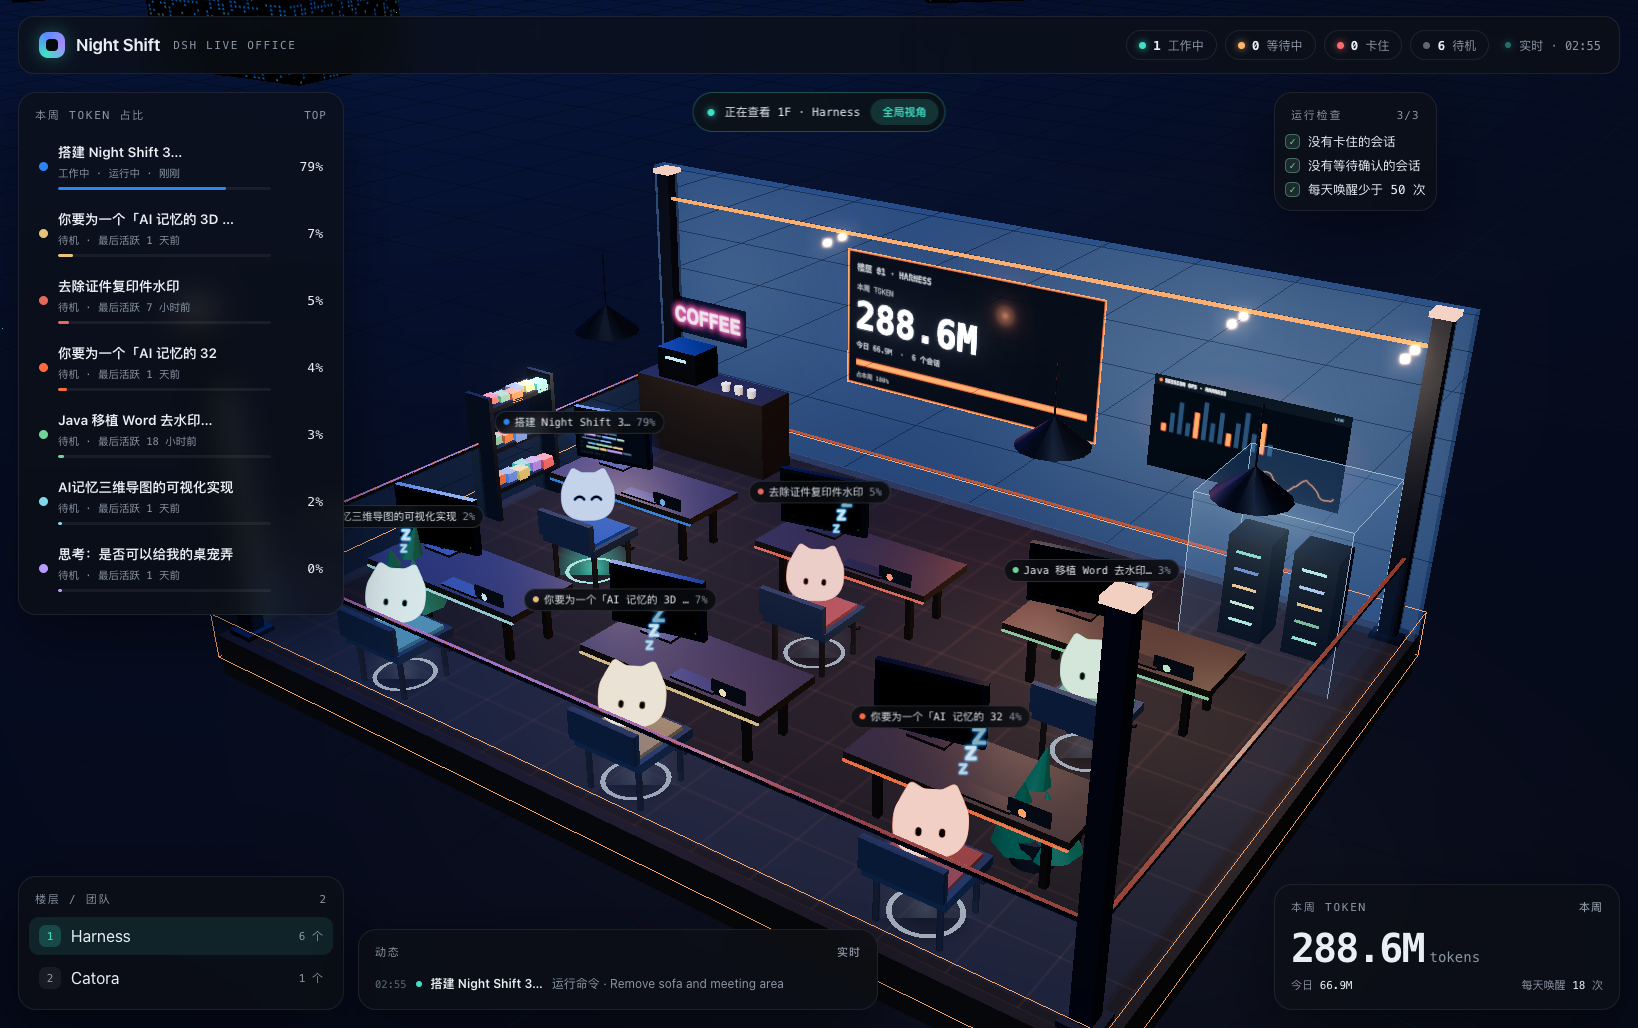
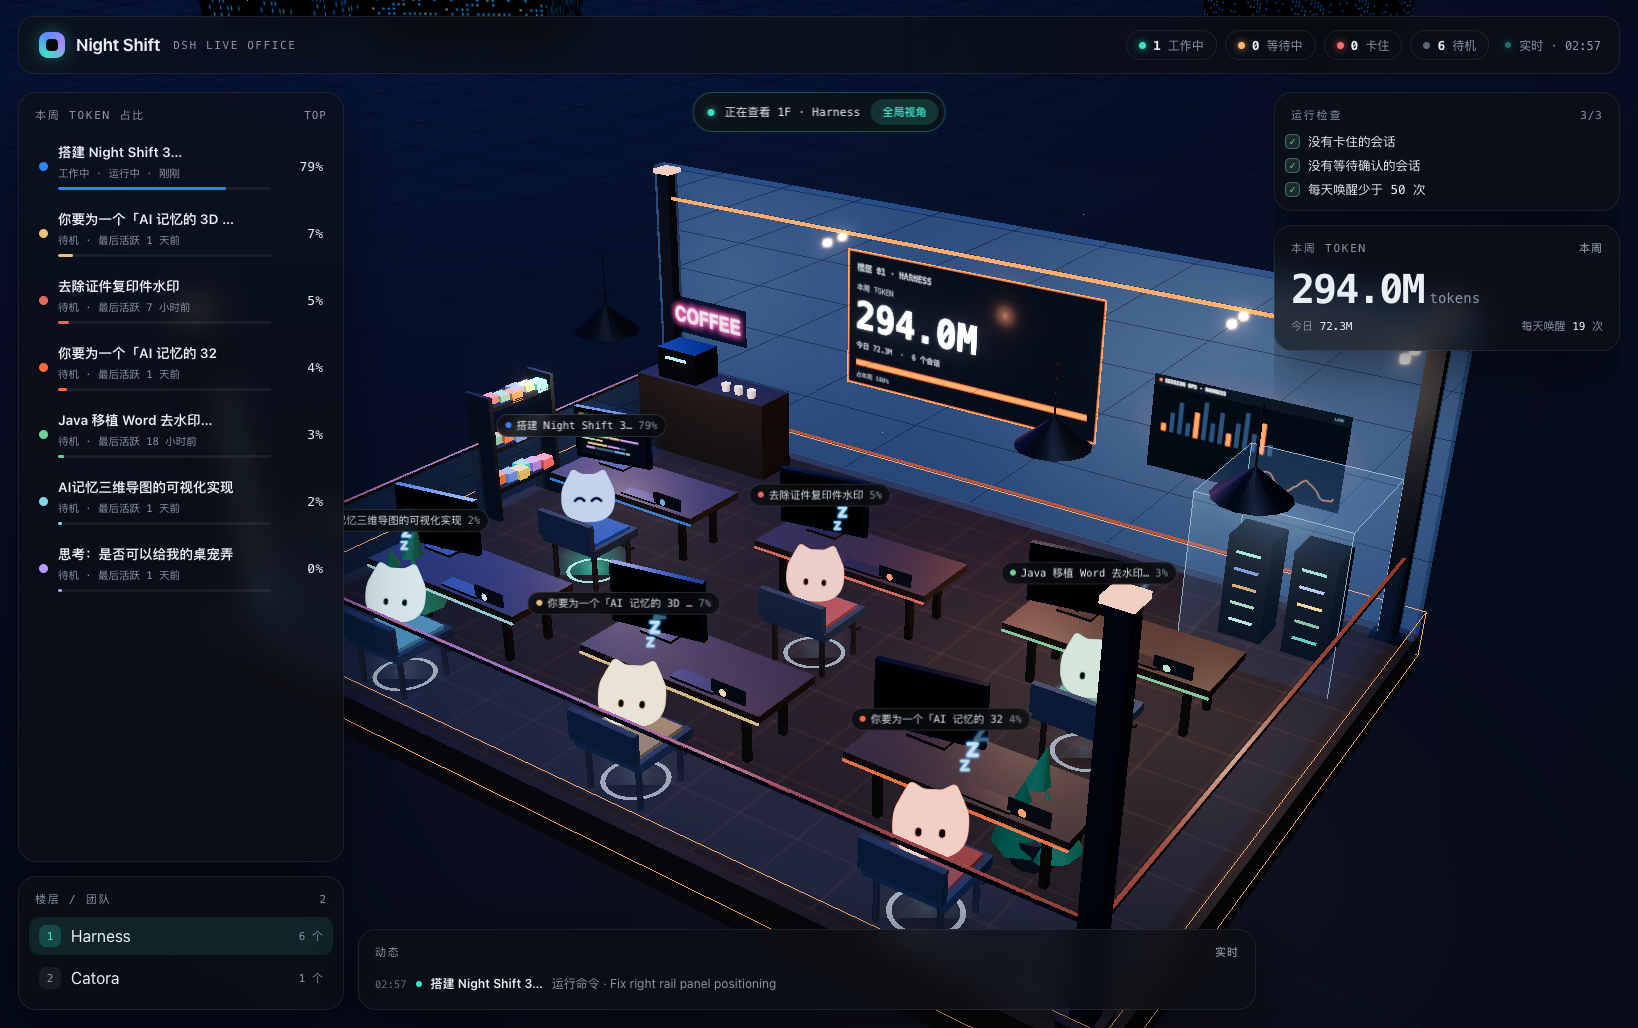
layout(hud): 重构提示面板布局
- 左侧收成单栏：榜单（自适应高度）+ 楼层，去掉错落的底部悬浮
- 右侧收成单栏：运行检查 + 本周 TOKEN，移到同一栏
- 动态改为底部通栏，限制高度、内部滚动
- 面板间距统一 14，移除重叠/参差；1280/1638/2560 验证无重叠
- impeccable detect --scope layout 无告警；版本 2.4.0

diff --git a/lib/panel.html b/lib/panel.html
@@ -57,8 +57,9 @@
   .panel__head b{margin-left:auto;color:var(--dim);font-weight:500;letter-spacing:1px}
   .panel__body{padding:0 10px 12px}
 
-  /* ---------- 左侧榜单 ---------- */
-  #board{left:18px;top:92px;width:326px;max-height:calc(100vh - 92px - 190px);display:flex;flex-direction:column}
+  /* ---------- 左侧栏：榜单 + 楼层 ---------- */
+  #left{position:absolute;left:18px;top:92px;bottom:18px;width:326px;display:flex;flex-direction:column;gap:14px;z-index:9;min-height:0}
+  #board{position:relative;left:auto;top:auto;width:auto;flex:1 1 auto;min-height:0;max-height:none;display:flex;flex-direction:column}
   #board .panel__body{overflow:auto;scrollbar-width:thin;scrollbar-color:#242a34 transparent}
   #board .panel__body::-webkit-scrollbar{width:6px}
   #board .panel__body::-webkit-scrollbar-thumb{background:#242a34;border-radius:3px}
@@ -75,7 +76,7 @@
   .row__pct{font-family:var(--mono);font-size:13px;color:var(--ink);flex:none;min-width:42px;text-align:right}
 
   /* ---------- 楼层 ---------- */
-  #floors{left:18px;bottom:18px;width:326px}
+  #floors{position:relative;left:auto;bottom:auto;width:auto;flex:none}
   #floors .panel__body{display:flex;flex-direction:column;gap:4px}
   .floor{display:flex;align-items:center;gap:10px;padding:8px 10px;border-radius:10px;cursor:pointer;font-size:13px;appearance:none;width:100%;border:0;background:transparent;color:inherit;font:inherit;text-align:left}
   .floor:hover{background:rgba(255,255,255,.045)}
@@ -85,7 +86,9 @@
   .floor__ct{margin-left:auto;font-family:var(--mono);font-size:11px;color:var(--dim)}
 
   /* ---------- 右侧 ---------- */
-  #right{position:absolute;right:18px;top:92px;width:346px;display:flex;flex-direction:column;gap:14px;z-index:9;max-height:calc(100vh - 92px - 170px)}
+  #right{position:absolute;right:18px;top:92px;bottom:18px;width:346px;display:flex;flex-direction:column;gap:14px;z-index:9;max-height:none;overflow:auto;scrollbar-width:none}
+  #right::-webkit-scrollbar{display:none}
+  #right > .panel{position:relative;left:auto;right:auto;top:auto;bottom:auto}
   #card{position:relative;display:none}
   #card.show{display:block}
   #card .panel__head b{margin-left:0;margin-right:26px;color:var(--dim)}
@@ -111,8 +114,8 @@
   .check.ok i{background:rgba(125,211,160,.14);border-color:rgba(125,211,160,.4);color:var(--green)}
 
   /* ---------- 动态 ---------- */
-  #feed{left:358px;bottom:18px;width:min(520px,calc(100vw - 358px - 386px))}
-  #feed .panel__body{display:flex;flex-direction:column;gap:2px}
+  #feed{left:358px;right:382px;bottom:18px;width:auto;max-height:168px;display:flex;flex-direction:column;overflow:hidden}
+  #feed .panel__body{display:flex;flex-direction:column;gap:2px;overflow:auto;min-height:0}
   .evt{display:flex;align-items:center;gap:9px;padding:5px 6px;font-size:12px;color:var(--dim);white-space:nowrap;overflow:hidden}
   .evt .t{font-family:var(--mono);font-size:10.5px;color:var(--dim-2);flex:none}
   .evt i{width:6px;height:6px;border-radius:50%;flex:none}
@@ -123,7 +126,7 @@
   .empty span{color:var(--dim-2)}
 
   /* ---------- 用量 ---------- */
-  #meter{right:18px;bottom:18px;width:346px}
+  #meter{position:relative;right:auto;bottom:auto;width:auto;flex:none}
   #meter .panel__body{padding:0 16px 16px}
   #meter .big{font-family:var(--mono);font-size:40px;font-weight:650;letter-spacing:-2px;line-height:1.05;margin-top:2px}
   #meter .big small{font-size:14px;font-weight:500;color:var(--dim);letter-spacing:0;margin-left:6px}
@@ -150,10 +153,14 @@
   .floorlbl{position:absolute;transform:translate(-50%,-50%);font-family:var(--mono);font-size:11px;letter-spacing:2px;color:rgba(138,148,163,.9);padding:3px 9px;border:1px solid rgba(255,255,255,.1);border-radius:999px;background:rgba(8,11,15,.6);white-space:nowrap}
   .floorlbl b{color:var(--ink);font-weight:600;margin-left:6px;letter-spacing:0}
   @media (max-width:1180px){
-    #board,#floors{width:280px}
-    #right,#meter{width:300px}
-    #feed{width:420px}
+    #left{width:280px}
+    #right{width:300px}
+    #feed{left:312px;right:332px}
     .brand span{display:none}
+  }
+  @media (max-height:760px){
+    #floors{display:none}
+    #feed{max-height:112px}
   }
 </style>
 </head>
@@ -168,15 +175,17 @@
     <div id="clock"><i></i><span>实时</span></div>
   </header>
 
-  <aside id="board" class="panel">
-    <div class="panel__head"><span>本周 TOKEN 占比</span><b>TOP</b></div>
-    <div class="panel__body" id="boardBody"></div>
-  </aside>
+  <div id="left">
+    <aside id="board" class="panel">
+      <div class="panel__head"><span>本周 TOKEN 占比</span><b>TOP</b></div>
+      <div class="panel__body" id="boardBody"></div>
+    </aside>
 
-  <aside id="floors" class="panel">
-    <div class="panel__head"><span>楼层 / 团队</span><b id="floorCount"></b></div>
-    <div class="panel__body" id="floorBody"></div>
-  </aside>
+    <aside id="floors" class="panel">
+      <div class="panel__head"><span>楼层 / 团队</span><b id="floorCount"></b></div>
+      <div class="panel__body" id="floorBody"></div>
+    </aside>
+  </div>
 
   <aside id="right">
     <section id="card" class="panel">
@@ -197,19 +206,19 @@
       <div class="panel__head"><span>运行检查</span><b id="checkScore"></b></div>
       <div class="panel__body" id="checkBody"></div>
     </section>
+
+    <footer id="meter" class="panel">
+      <div class="panel__head"><span>本周 TOKEN</span><b id="meterSpan">周一至今</b></div>
+      <div class="panel__body">
+        <div class="big" id="meterBig">0<small>tokens</small></div>
+        <div class="sub"><span>今日 <b id="meterToday">0</b></span><span>每天唤醒 <b id="meterWake">0</b> 次</span></div>
+      </div>
+    </footer>
   </aside>
 
   <footer id="feed" class="panel">
     <div class="panel__head"><span>动态</span><b>实时</b></div>
     <div class="panel__body" id="feedBody"></div>
-  </footer>
-
-  <footer id="meter" class="panel">
-    <div class="panel__head"><span>本周 TOKEN</span><b id="meterSpan">周一至今</b></div>
-    <div class="panel__body">
-      <div class="big" id="meterBig">0<small>tokens</small></div>
-      <div class="sub"><span>今日 <b id="meterToday">0</b></span><span>每天唤醒 <b id="meterWake">0</b> 次</span></div>
-    </div>
   </footer>
 
   <div id="focusChip" hidden>

diff --git a/panel-src/index.html b/panel-src/index.html
@@ -57,8 +57,9 @@
   .panel__head b{margin-left:auto;color:var(--dim);font-weight:500;letter-spacing:1px}
   .panel__body{padding:0 10px 12px}
 
-  /* ---------- 左侧榜单 ---------- */
-  #board{left:18px;top:92px;width:326px;max-height:calc(100vh - 92px - 190px);display:flex;flex-direction:column}
+  /* ---------- 左侧栏：榜单 + 楼层 ---------- */
+  #left{position:absolute;left:18px;top:92px;bottom:18px;width:326px;display:flex;flex-direction:column;gap:14px;z-index:9;min-height:0}
+  #board{position:relative;left:auto;top:auto;width:auto;flex:1 1 auto;min-height:0;max-height:none;display:flex;flex-direction:column}
   #board .panel__body{overflow:auto;scrollbar-width:thin;scrollbar-color:#242a34 transparent}
   #board .panel__body::-webkit-scrollbar{width:6px}
   #board .panel__body::-webkit-scrollbar-thumb{background:#242a34;border-radius:3px}
@@ -75,7 +76,7 @@
   .row__pct{font-family:var(--mono);font-size:13px;color:var(--ink);flex:none;min-width:42px;text-align:right}
 
   /* ---------- 楼层 ---------- */
-  #floors{left:18px;bottom:18px;width:326px}
+  #floors{position:relative;left:auto;bottom:auto;width:auto;flex:none}
   #floors .panel__body{display:flex;flex-direction:column;gap:4px}
   .floor{display:flex;align-items:center;gap:10px;padding:8px 10px;border-radius:10px;cursor:pointer;font-size:13px;appearance:none;width:100%;border:0;background:transparent;color:inherit;font:inherit;text-align:left}
   .floor:hover{background:rgba(255,255,255,.045)}
@@ -85,7 +86,9 @@
   .floor__ct{margin-left:auto;font-family:var(--mono);font-size:11px;color:var(--dim)}
 
   /* ---------- 右侧 ---------- */
-  #right{position:absolute;right:18px;top:92px;width:346px;display:flex;flex-direction:column;gap:14px;z-index:9;max-height:calc(100vh - 92px - 170px)}
+  #right{position:absolute;right:18px;top:92px;bottom:18px;width:346px;display:flex;flex-direction:column;gap:14px;z-index:9;max-height:none;overflow:auto;scrollbar-width:none}
+  #right::-webkit-scrollbar{display:none}
+  #right > .panel{position:relative;left:auto;right:auto;top:auto;bottom:auto}
   #card{position:relative;display:none}
   #card.show{display:block}
   #card .panel__head b{margin-left:0;margin-right:26px;color:var(--dim)}
@@ -111,8 +114,8 @@
   .check.ok i{background:rgba(125,211,160,.14);border-color:rgba(125,211,160,.4);color:var(--green)}
 
   /* ---------- 动态 ---------- */
-  #feed{left:358px;bottom:18px;width:min(520px,calc(100vw - 358px - 386px))}
-  #feed .panel__body{display:flex;flex-direction:column;gap:2px}
+  #feed{left:358px;right:382px;bottom:18px;width:auto;max-height:168px;display:flex;flex-direction:column;overflow:hidden}
+  #feed .panel__body{display:flex;flex-direction:column;gap:2px;overflow:auto;min-height:0}
   .evt{display:flex;align-items:center;gap:9px;padding:5px 6px;font-size:12px;color:var(--dim);white-space:nowrap;overflow:hidden}
   .evt .t{font-family:var(--mono);font-size:10.5px;color:var(--dim-2);flex:none}
   .evt i{width:6px;height:6px;border-radius:50%;flex:none}
@@ -123,7 +126,7 @@
   .empty span{color:var(--dim-2)}
 
   /* ---------- 用量 ---------- */
-  #meter{right:18px;bottom:18px;width:346px}
+  #meter{position:relative;right:auto;bottom:auto;width:auto;flex:none}
   #meter .panel__body{padding:0 16px 16px}
   #meter .big{font-family:var(--mono);font-size:40px;font-weight:650;letter-spacing:-2px;line-height:1.05;margin-top:2px}
   #meter .big small{font-size:14px;font-weight:500;color:var(--dim);letter-spacing:0;margin-left:6px}
@@ -150,10 +153,14 @@
   .floorlbl{position:absolute;transform:translate(-50%,-50%);font-family:var(--mono);font-size:11px;letter-spacing:2px;color:rgba(138,148,163,.9);padding:3px 9px;border:1px solid rgba(255,255,255,.1);border-radius:999px;background:rgba(8,11,15,.6);white-space:nowrap}
   .floorlbl b{color:var(--ink);font-weight:600;margin-left:6px;letter-spacing:0}
   @media (max-width:1180px){
-    #board,#floors{width:280px}
-    #right,#meter{width:300px}
-    #feed{width:420px}
+    #left{width:280px}
+    #right{width:300px}
+    #feed{left:312px;right:332px}
     .brand span{display:none}
+  }
+  @media (max-height:760px){
+    #floors{display:none}
+    #feed{max-height:112px}
   }
 </style>
 </head>
@@ -168,15 +175,17 @@
     <div id="clock"><i></i><span>实时</span></div>
   </header>
 
-  <aside id="board" class="panel">
-    <div class="panel__head"><span>本周 TOKEN 占比</span><b>TOP</b></div>
-    <div class="panel__body" id="boardBody"></div>
-  </aside>
+  <div id="left">
+    <aside id="board" class="panel">
+      <div class="panel__head"><span>本周 TOKEN 占比</span><b>TOP</b></div>
+      <div class="panel__body" id="boardBody"></div>
+    </aside>
 
-  <aside id="floors" class="panel">
-    <div class="panel__head"><span>楼层 / 团队</span><b id="floorCount"></b></div>
-    <div class="panel__body" id="floorBody"></div>
-  </aside>
+    <aside id="floors" class="panel">
+      <div class="panel__head"><span>楼层 / 团队</span><b id="floorCount"></b></div>
+      <div class="panel__body" id="floorBody"></div>
+    </aside>
+  </div>
 
   <aside id="right">
     <section id="card" class="panel">
@@ -197,19 +206,19 @@
       <div class="panel__head"><span>运行检查</span><b id="checkScore"></b></div>
       <div class="panel__body" id="checkBody"></div>
     </section>
+
+    <footer id="meter" class="panel">
+      <div class="panel__head"><span>本周 TOKEN</span><b id="meterSpan">周一至今</b></div>
+      <div class="panel__body">
+        <div class="big" id="meterBig">0<small>tokens</small></div>
+        <div class="sub"><span>今日 <b id="meterToday">0</b></span><span>每天唤醒 <b id="meterWake">0</b> 次</span></div>
+      </div>
+    </footer>
   </aside>
 
   <footer id="feed" class="panel">
     <div class="panel__head"><span>动态</span><b>实时</b></div>
     <div class="panel__body" id="feedBody"></div>
-  </footer>
-
-  <footer id="meter" class="panel">
-    <div class="panel__head"><span>本周 TOKEN</span><b id="meterSpan">周一至今</b></div>
-    <div class="panel__body">
-      <div class="big" id="meterBig">0<small>tokens</small></div>
-      <div class="sub"><span>今日 <b id="meterToday">0</b></span><span>每天唤醒 <b id="meterWake">0</b> 次</span></div>
-    </div>
   </footer>
 
   <div id="focusChip" hidden>
